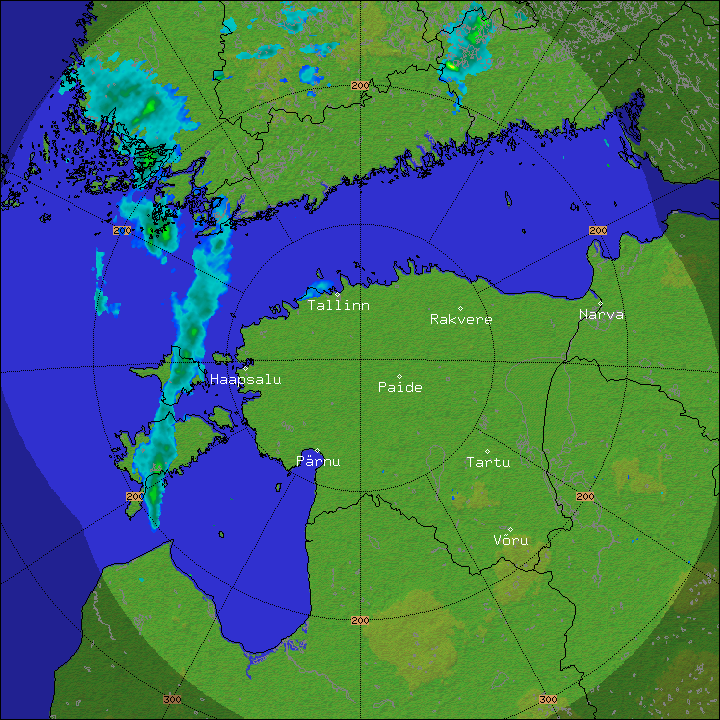
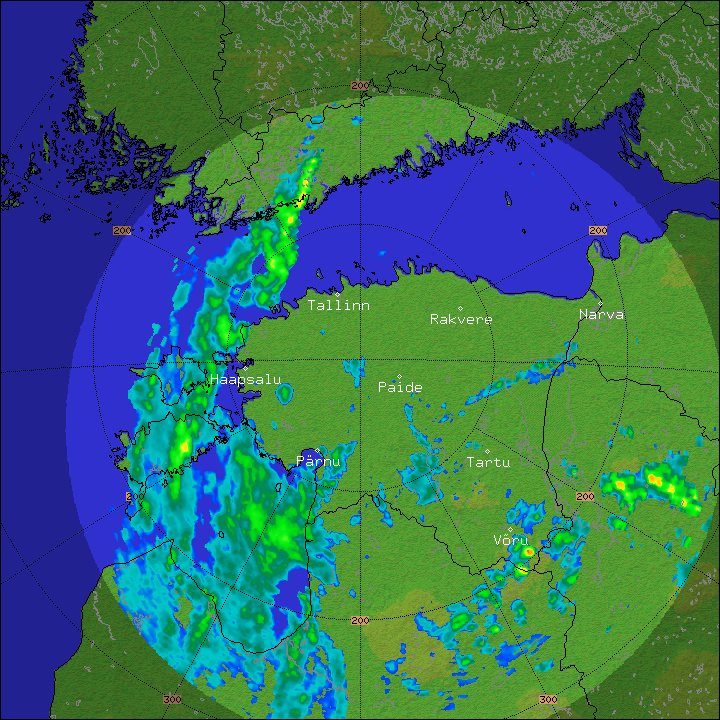
yaas

diff --git a/Enda/wp-img/templates/index.html b/Enda/wp-img/templates/index.html
@@ -1,9 +1,29 @@
 <!DOCTYPE html>
 <html lang="en">
 <head>
+    <script language="JavaScript">
+            function refreshIt(element) {
+                setTimeout(function() {
+                    element.src = element.src.split('?')[0] + '?' + new Date().getTime();
+                    refreshIt(element);
+                }, 300000); // refresh every 5000ms
+            }
+    </script>
     <title>Wp-index-img</title>
+    <style>
+  .center {
+  display: block;
+  margin-left: auto;
+  margin-right: auto;
+}
+
+    </style>
 </head>
 <body>
-   <h1>Bot is running</h1>
+    <img src="{{url_for('static', filename='img.png')}}" alt="img" class="center" onload="refreshIt(this)">
+    
+    <iframe src="{{url_for('static', filename='img.png')}}" width="100%" height="300" style="border:none;" class="center" onload="refreshIt(this)">
+    </iframe>
 </body>
+
 </html>

diff --git a/Enda/wp-img/GetImg.py b/Enda/wp-img/GetImg.py
@@ -1,14 +1,17 @@
-from bs4 import BeautifulSoup
-from urllib.request import urlopen
+def getimg():
+    from bs4 import BeautifulSoup
+    from urllib.request import urlopen, urlretrieve
 
-url = "https://www.ilmateenistus.ee/wp-content/themes/emhi2013/data/radar/cappi_rain/?C=M;O=D"
-print(url[:-8])
-html = urlopen(url).read()
+    url = "https://vana.ilmateenistus.ee/wp-content/themes/emhi2013/data/radar/cappi_rain/?C=M;O=D"
 
-soup = BeautifulSoup(html, features="html.parser")
+    html = urlopen(url).read()
 
-last_link = soup.find_all('a', href=True)[5]
+    soup = BeautifulSoup(html, features="html.parser")
 
-latest_content = urlopen(f"{url[:-8]}{last_link['href']}").read()
+    last_link = soup.find_all('a', href=True)[5]
 
-print(last_link['href'])
+    urlretrieve(f"{url[:-8]}{last_link['href']}", "static/img.png")
+
+    print(last_link['href'])
+
+    print(f"{url[:-8]}{last_link['href']}")

diff --git a/Enda/wp-img/main.py b/Enda/wp-img/main.py
@@ -1,10 +1,12 @@
 from flask import Flask, render_template
 from threading import Thread
+from GetImg import getimg
+import time
 
 app = Flask('')
 
 
-@app.route('/')
+@app.route('/', methods=['GET', 'POST'])
 def home():
     return render_template('index.html')
 
@@ -13,9 +15,14 @@ def run():
     app.run(host="0.0.0.0")
 
 
+
 def keep_alive():
     server = Thread(target=run)
     server.start()
 
 
 keep_alive()
+
+while True:
+    getimg()
+    time.sleep(300)
